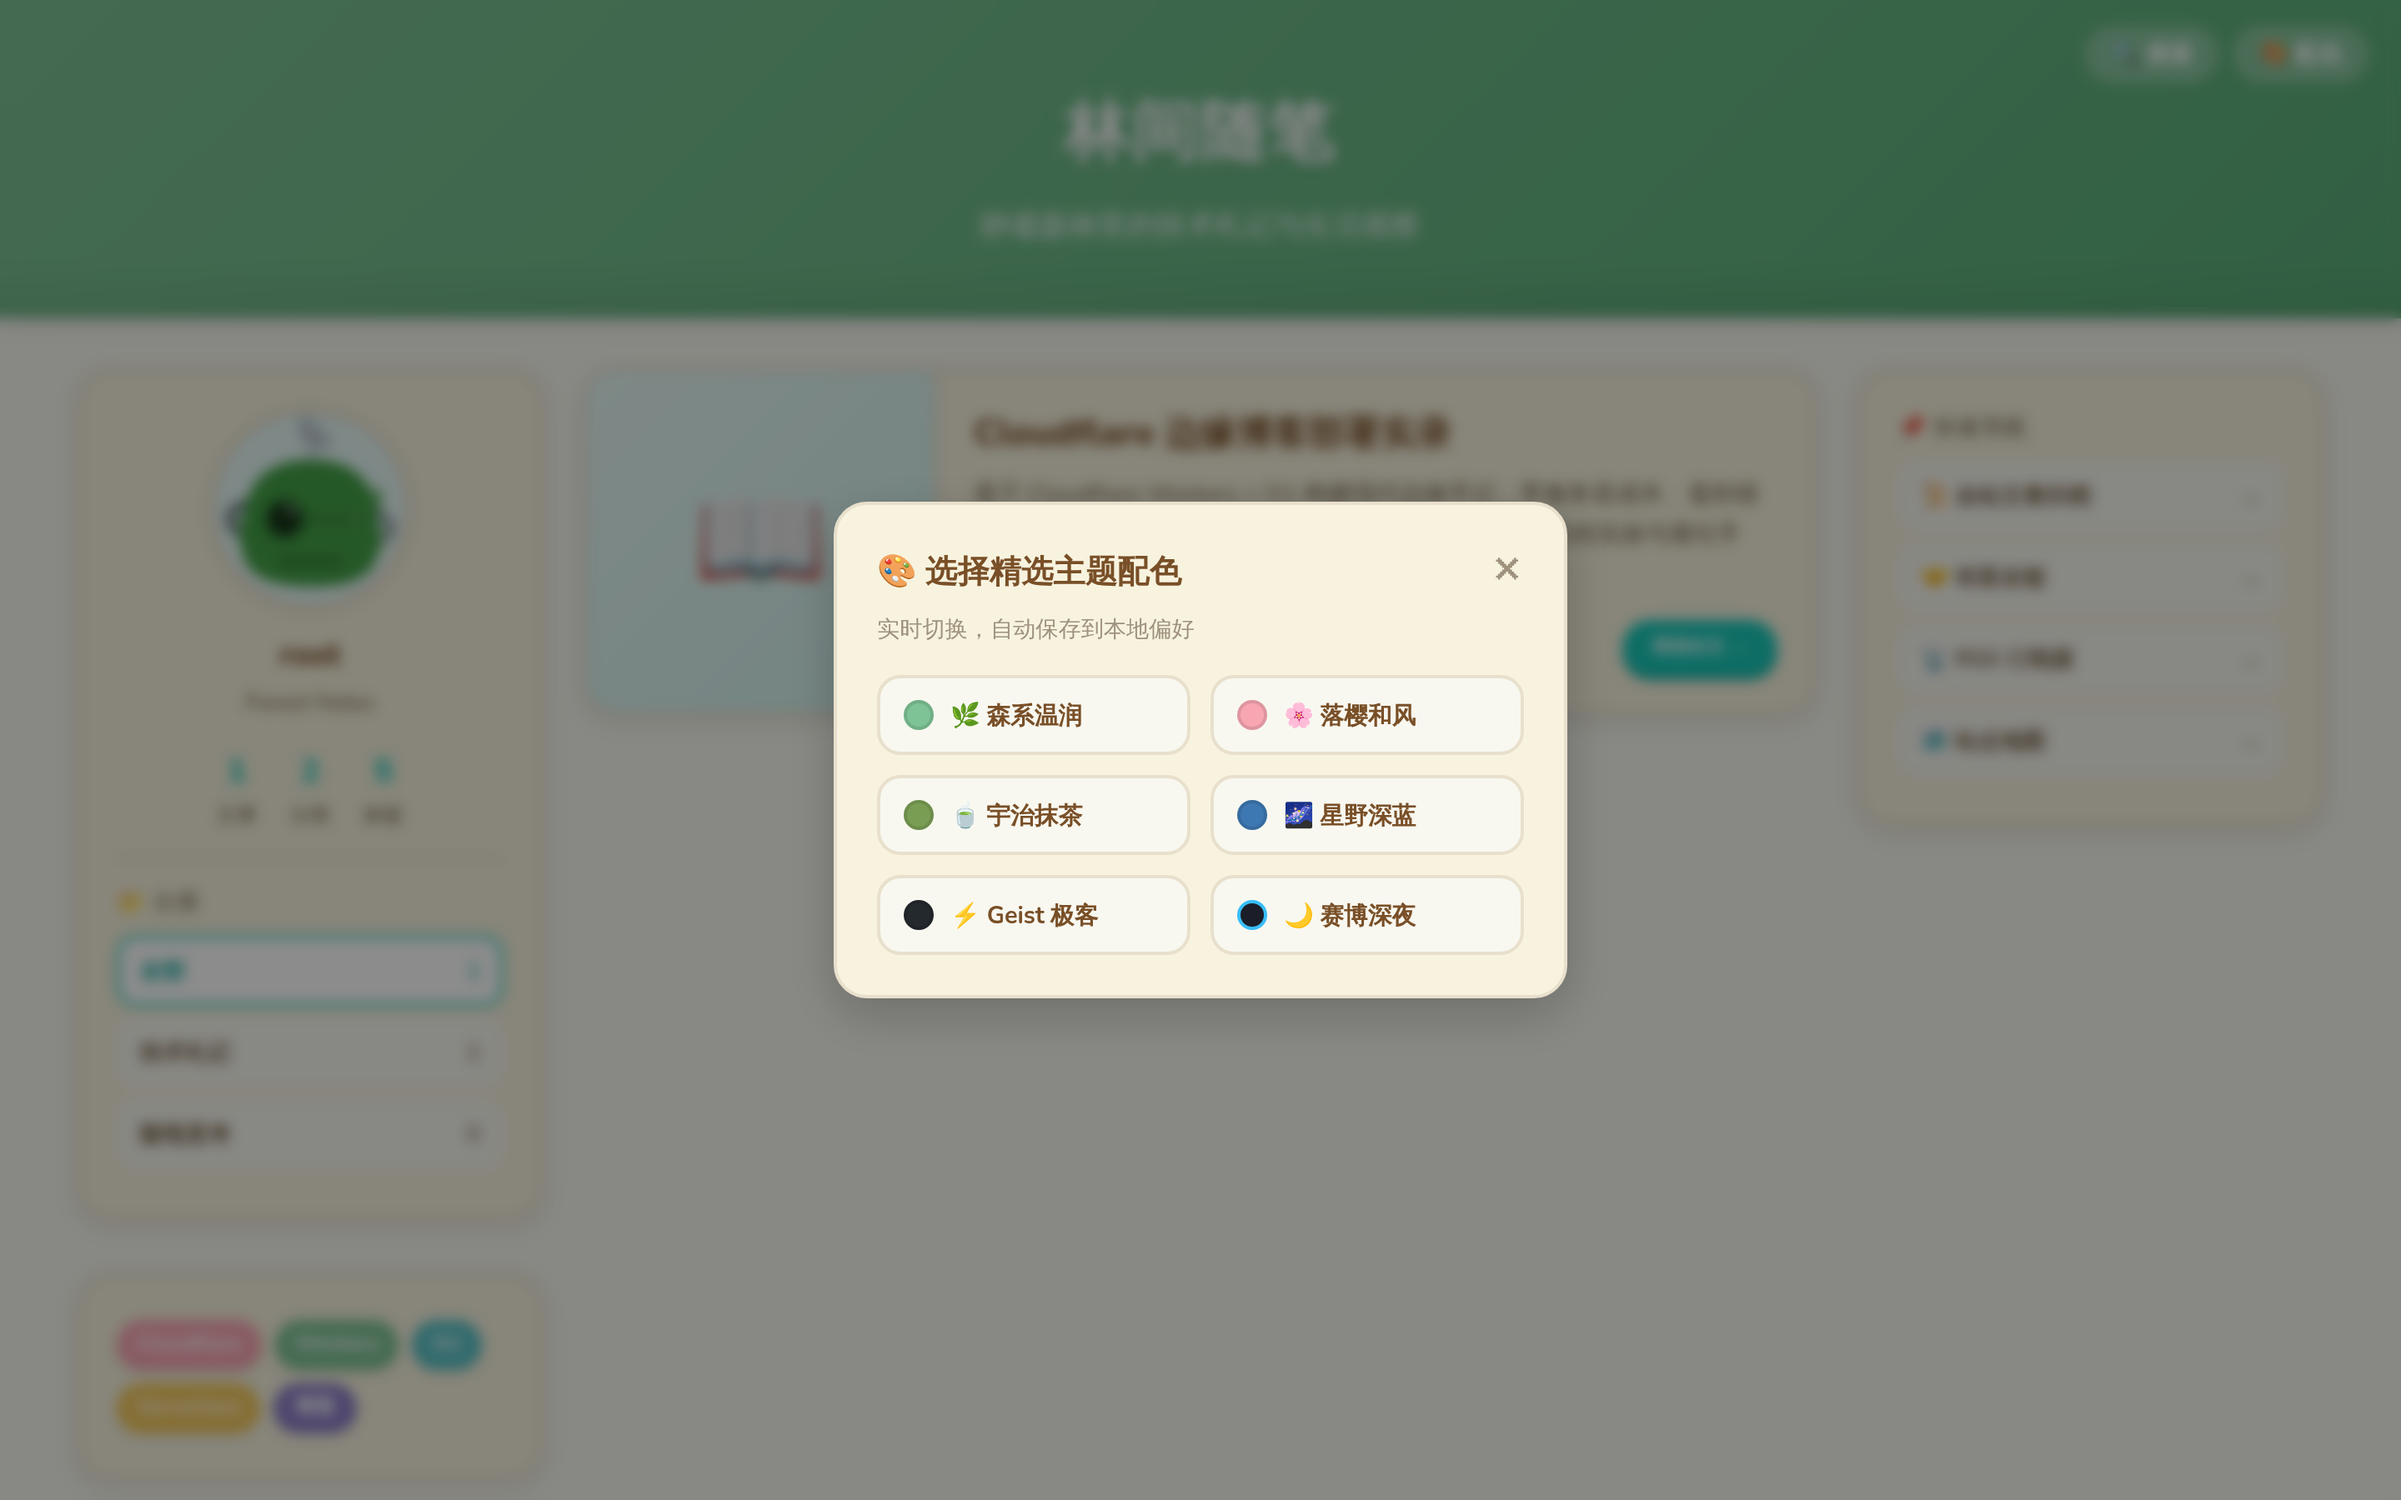
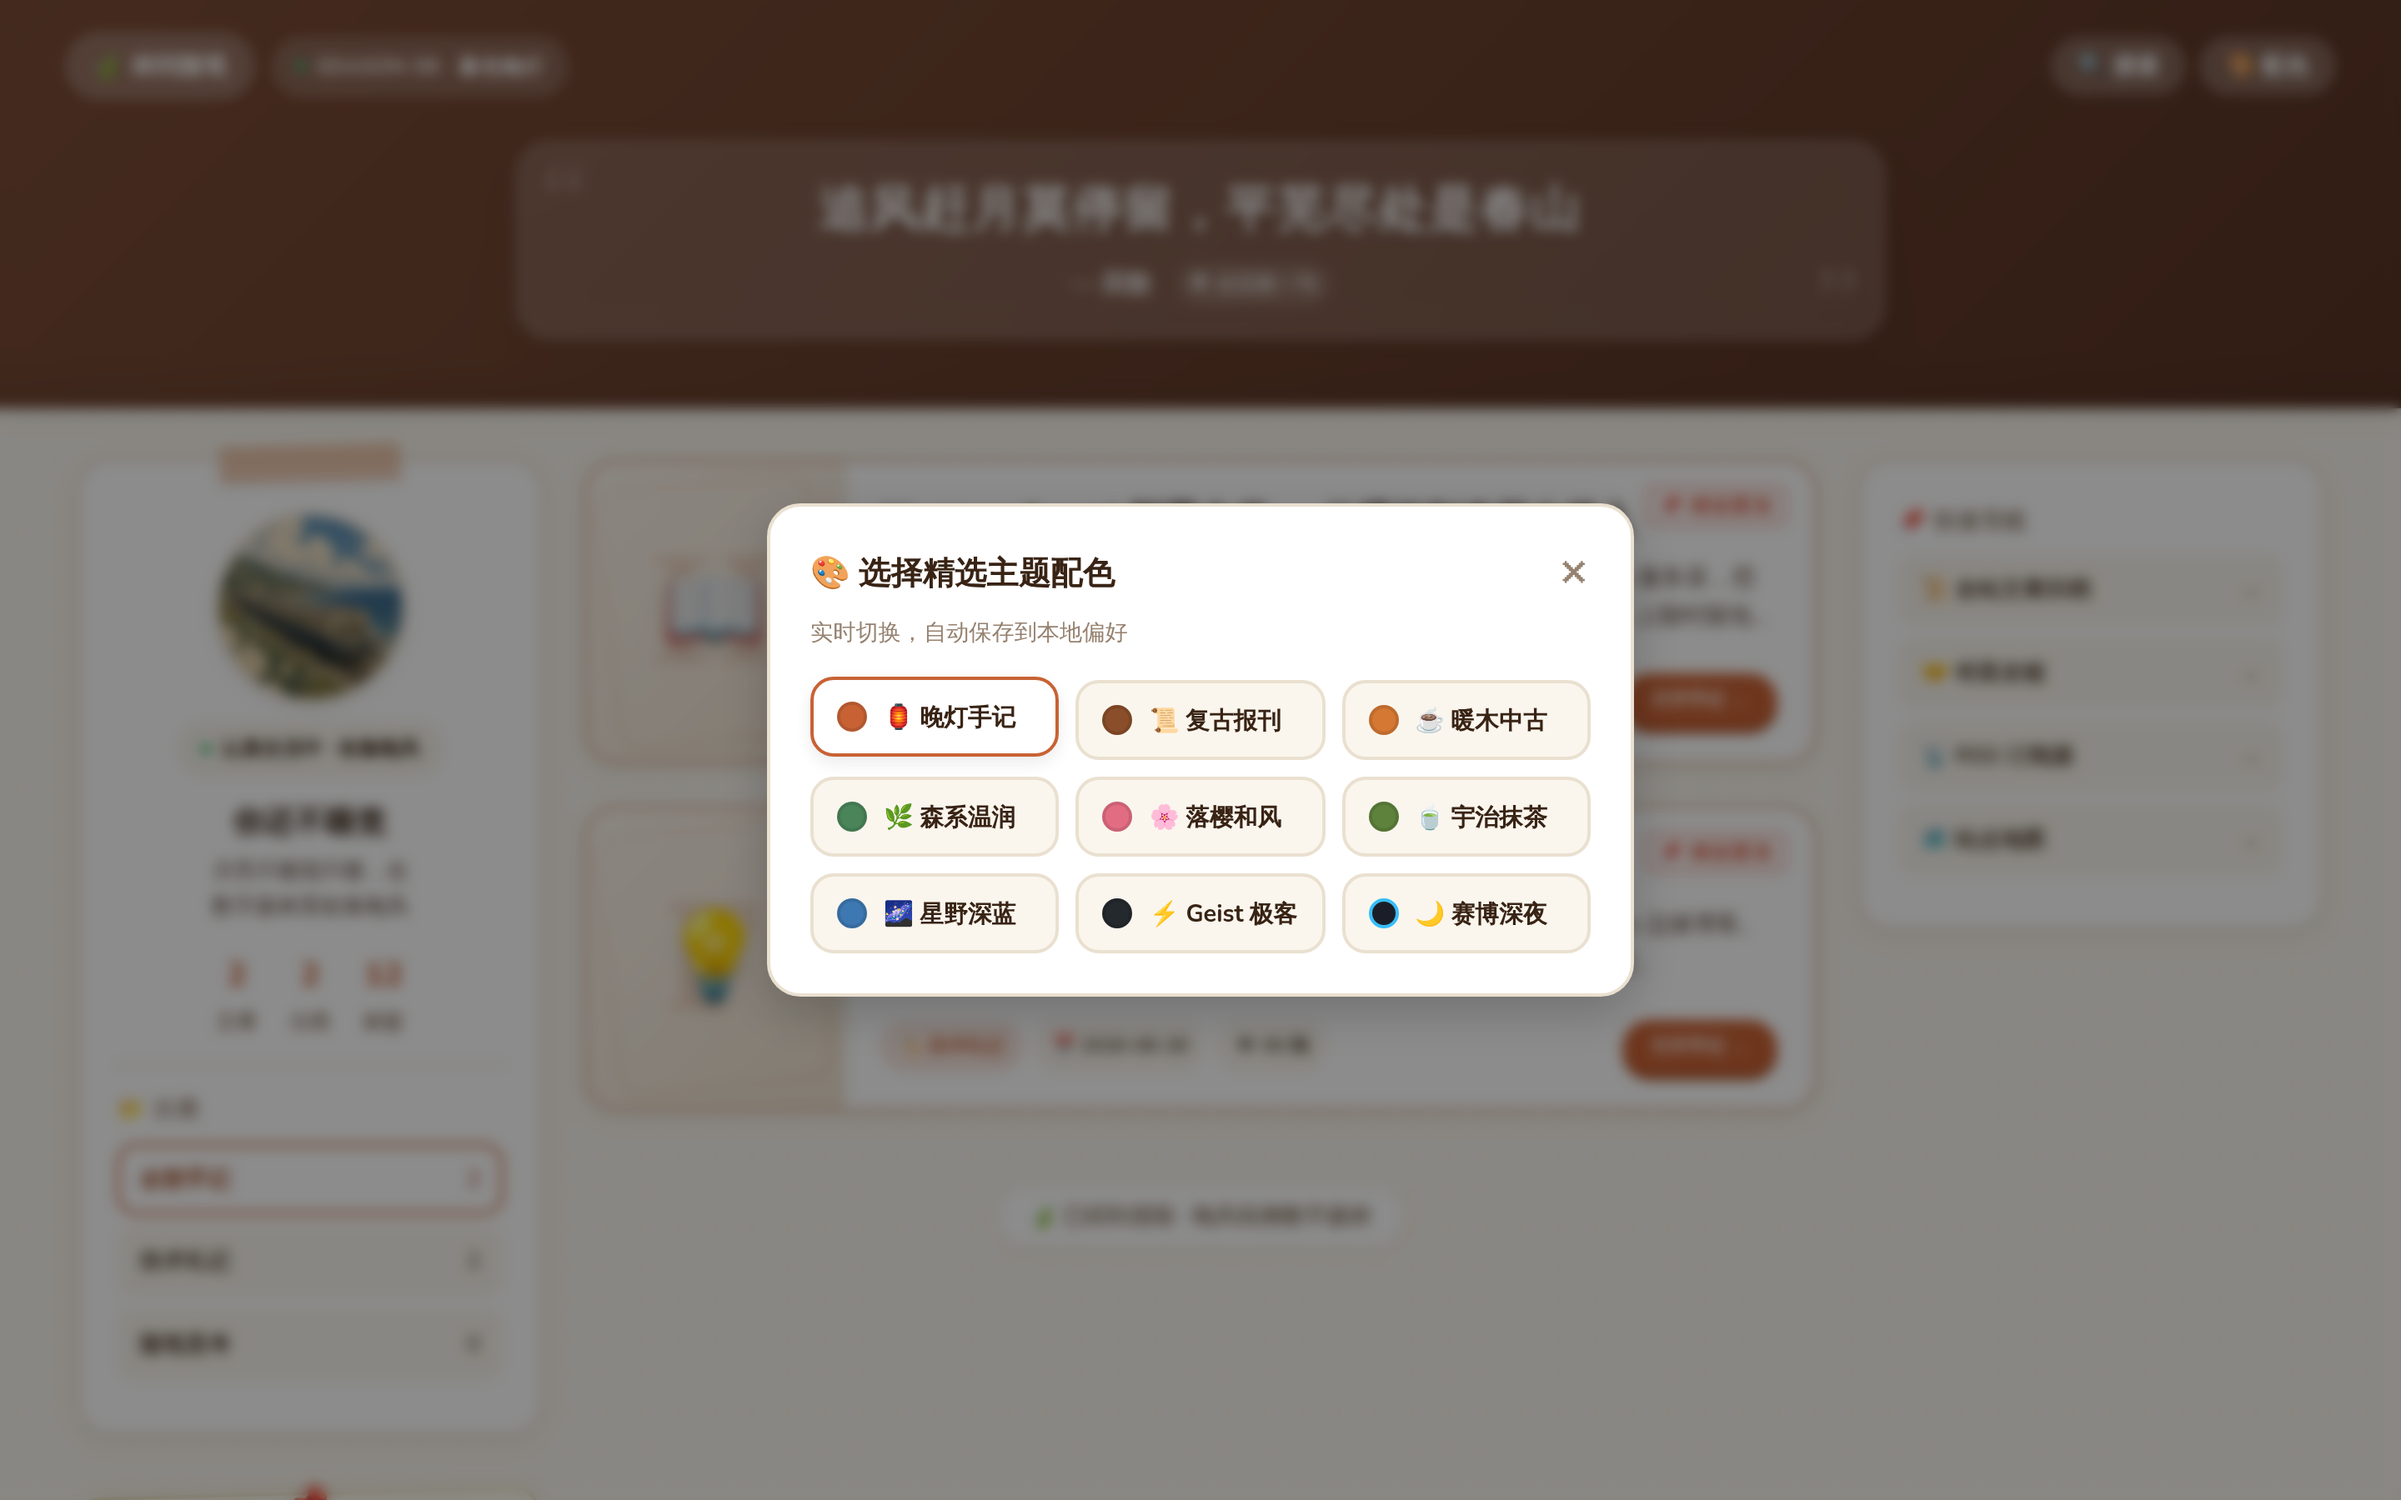
docs: refresh showcase preview screenshots, bump version to v1.2.0, and cleanup giscus references

diff --git a/CHANGELOG.md b/CHANGELOG.md
@@ -16,6 +16,19 @@
 - **🎨 主题弹窗与网格重构**：
   - 主题切换器扩充至 **9 套精选主题**，网格自适应排布，支持当前主题高亮激活标识与 0 延迟即时换肤。
 
+### 💄 视觉与排版深度调优 (UI & Typography Polish)
+- **🏷 手账风精选置顶与卡片黄金比例**：
+  - 文章列表卡片封面优化为 155px 黄金比例紧凑卡牌，内置动态首字与 Emoji 水印。
+  - 统一并消除了双重置顶徽章冲突，收拢为右上角手账缝线印章「📌 精选置顶」。
+- **✍ 中文排版与孤字断行修复**：
+  - 全面引入 `text-wrap: balance`，彻底解决作者简介、长标题与摘要的孤字单字挂行问题。
+- **🌿 莫兰迪/大地色系标签云**：
+  - 标签云重构为焦糖暖栗、林间苍翠、暮海黛蓝、古铜麦黄等低饱和大地色系，与整站手账纸感无缝融合。
+- **🍃 列表末尾闭环反馈**：
+  - 文章列表末尾新增「🍃 已经到底啦 · 晚风轻拂数字森林」手账胶囊标识，提升阅读闭环体验。
+- **📖 详情页首屏阅读效率**：
+  - 文章详情页智能隐藏横幅金句，首屏直出标题、元信息与正文。
+
 ---
 
 ## [v1.1.0] - 2026-08-28

diff --git a/README.md b/README.md
@@ -74,7 +74,7 @@
 ![主题切换预览](docs/images/preview-theme-switcher.png)
 
 ### 3. 📖 沉浸式长文阅读 · 目录 TOC 与精调排版
-> 顶部平滑阅读进度条、代码高亮一键复制、文章目录智能跳转、图片点击灯箱放大与 Giscus 社区交流。
+> 顶部平滑阅读进度条、代码高亮一键复制、文章目录智能跳转、图片点击灯箱放大与文章一键复制分享。
 ![文章阅读预览](docs/images/preview-article.png)
 
 ### 4. 📱 移动端极致适配 · 丝滑抽屉导航
@@ -176,7 +176,7 @@ forest-blog/
 │   │   └── api.ts           # 公开 REST API、RSS 与 Sitemap
 │   └── theme/
 │       ├── styles.ts        # 6 套调色盘 CSS 变量、进度条与极简样式
-│       └── views.ts         # Edge SSR 页面模板 (首页/文章/归档/友链/Giscus)
+│       └── views.ts         # Edge SSR 页面模板 (首页/文章/归档/友链/404)
 ├── schema.sql               # D1 数据库结构与初始化数据
 ├── wrangler.toml            # Cloudflare Workers 部署配置
 ├── package.json

diff --git a/README.en.md b/README.en.md
@@ -72,8 +72,8 @@ ForestBlog runs entirely within **Cloudflare's generous Free Tier**. You can set
 > Switch themes anytime via the top right `🎨 Theme` button: **Akari Vintage (Default · Warm Cottage), Parchment Retro, Caramel Antique, Forest Warm, Sakura Sweet, Matcha Zen, Starry Ocean, Geist Monochrome, Cyber Dark**. Persistent local memory with zero flicker on first load.
 ![Theme Switcher Preview](docs/images/preview-theme-switcher.png)
 
-### 3. 📖 Immersive Article Reading · TOC, Code Highlights & Giscus
-> Top smooth reading progress bar, syntax-highlighted code blocks with 1-click copy, image lightbox zoom, and Giscus comment integration.
+### 3. 📖 Immersive Article Reading · TOC, Code Highlights & Sharing
+> Top smooth reading progress bar, syntax-highlighted code blocks with 1-click copy, image lightbox zoom, and 1-click link sharing.
 ![Article Preview](docs/images/preview-article.png)
 
 ### 4. 📱 Mobile Responsive · Drawer Navigation
